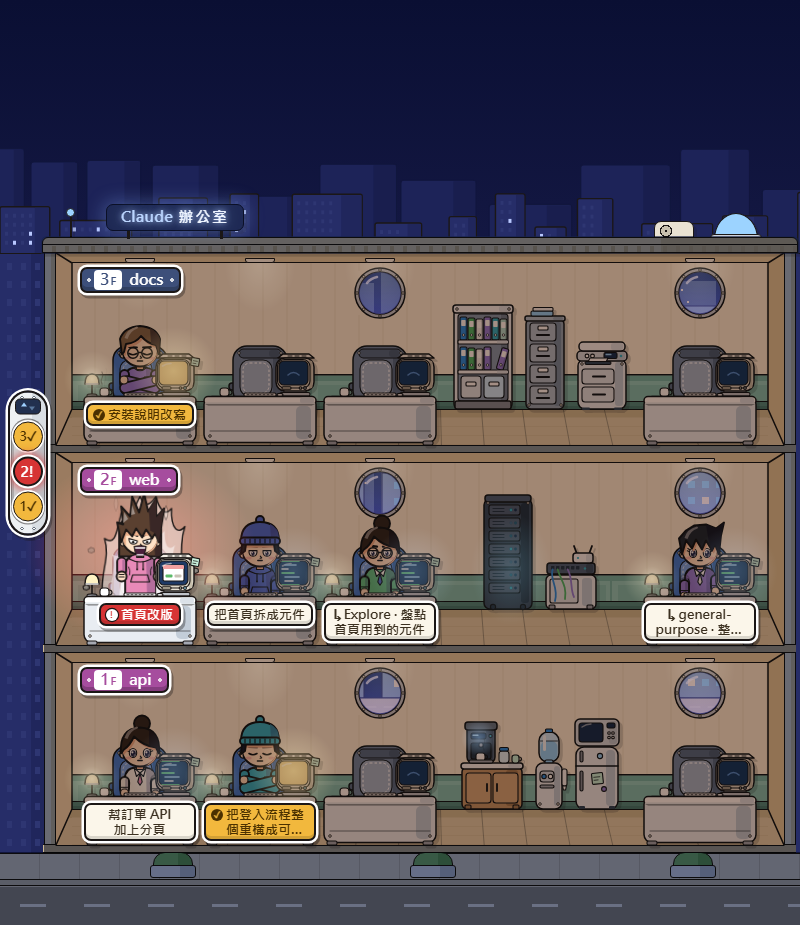
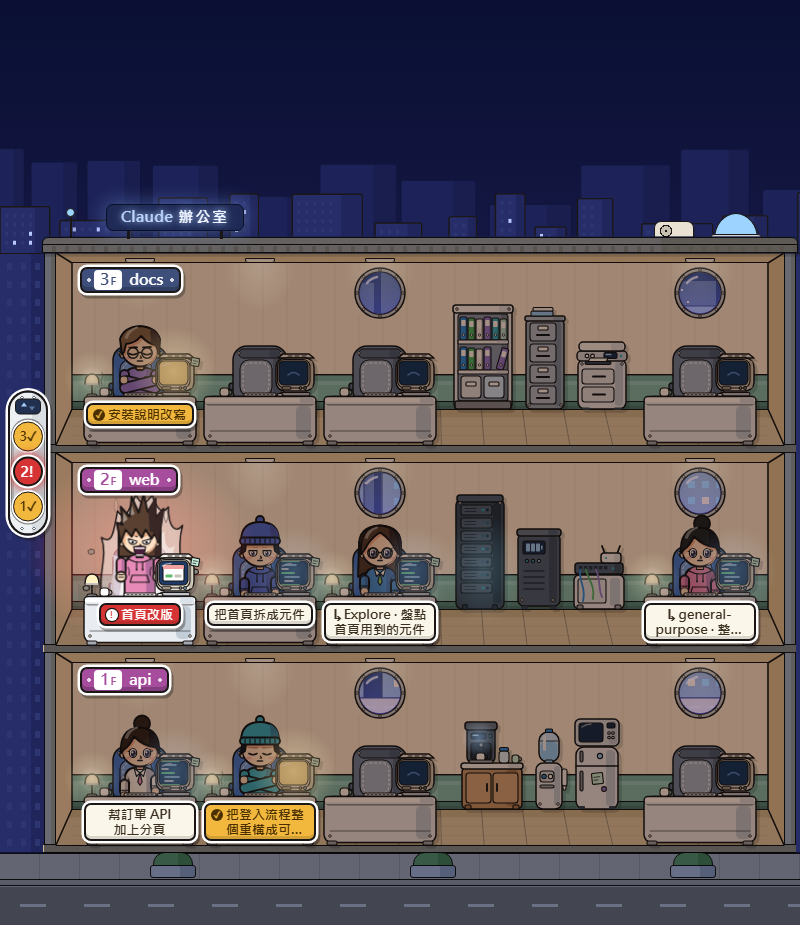
feat: 機房角加 UPS 不斷電櫃
只有機櫃和網路設備櫃時太空，中間加一台 UPS；重拍截圖。

diff --git a/web/src/objects.ts b/web/src/objects.ts
@@ -6,7 +6,7 @@
 import { circle, ellipse, fill, line, path, rect, tag } from './svg.js';
 
 export type DeskState = 'empty' | 'working' | 'waiting' | 'idle';
-export type FurnitureId = 'coffeeBar' | 'waterCooler' | 'fridge' | 'binderShelf' | 'fileCabinet' | 'copier' | 'serverRack' | 'networkCabinet' | 'whiteboard' | 'highTable';
+export type FurnitureId = 'coffeeBar' | 'waterCooler' | 'fridge' | 'binderShelf' | 'fileCabinet' | 'copier' | 'serverRack' | 'ups' | 'networkCabinet' | 'whiteboard' | 'highTable';
 export type ObjectId = `desk-${DeskState}` | 'chair' | 'window' | FurnitureId;
 /** 原點 = 底邊中點；symbol 的 viewBox = `${-w/2} ${-h} ${w} ${h}` */
 export interface ObjectSpec { w: number; h: number }
@@ -27,6 +27,7 @@ export const OBJECTS: Record<ObjectId, ObjectSpec> = {
   fileCabinet: { w: 40, h: 102 },
   copier: { w: 50, h: 68 },
   serverRack: { w: 50, h: 114 },
+  ups: { w: 44, h: 80 },
   networkCabinet: { w: 52, h: 64 },
   whiteboard: { w: 76, h: 106 },
   highTable: { w: 86, h: 80 },
@@ -390,6 +391,17 @@ const RACK_LEDS = Array.from({ length: RACK_UNITS }, (_, i) =>
   C(3, rackY(i) + 5, 1.4, 'led', i % 3 === 1 ? '#9fe6ff' : '#43b0c8', `--lag:${(i * 1.7) % 5}s`)
   + (i % 2 ? C(7.5, rackY(i) + 5, 1.4, 'led', '#43b0c8', `--lag:${(i * 2.3 + 1) % 5}s`) : '')).join('');
 
+/** UPS 不斷電櫃 44×80：深鋼色矮櫃（比機櫃淺一階）、深藍小螢幕裡三格電量、一排青色狀態燈、四道散熱槽、兩隻腳 */
+const ups = () =>
+  R(-21, -76, 42, 73, 6, 'mk', '#56647a') + R(10, -72, 8, 66, 3, '', '#454f61')
+  + R(-22, -80, 44, 7, 3, 'mk', '#6e7b8b') + R(9, -79, 10, 5, 2, '', '#56647a')
+  + R(-16, -68, 22, 13, 2, 'mk-thin', '#22304f')
+  + R(-13, -65.5, 4, 8, 0.8, '', '#9fd0ff') + R(-8, -65.5, 4, 8, 0.8, '', '#9fd0ff') + R(-3, -65.5, 4, 8, 0.8, '', '#9fd0ff') + R(2, -63.5, 1.6, 4, 0.5, '', '#9fd0ff')
+  + C(-12, -48, 1.6, 'mk-thin', '#43b0c8') + C(-6, -48, 1.6, 'mk-thin', '#43b0c8') + C(0, -48, 1.6, 'mk-thin', '#9fe6ff')
+  + L('M-15 -38 h20 M-15 -32 h20 M-15 -26 h20 M-15 -20 h20', 'mk-thin', 'stroke:#2c3646;stroke-width:1.6')
+  + R(-18, -3, 7, 3, 1, '', '#3a4658') + R(11, -3, 7, 3, 1, '', '#3a4658')
+  + rivet(-17, -9) + rivet(14, -9);
+
 /** 網路設備矮櫃 52×64：冷白矮櫃、上面一台交換器（一排網孔）和一台雙天線的路由器，三條網路線從交換器垂到櫃子前面 */
 function networkCabinet(): string {
   let o = R(-25, -34, 50, 34, 5, 'mk', '#e9edf2') + R(11, -31, 10, 28, 3, '', '#c3cdd8') + R(-21, -30, 28, 24, 2, 'mk-thin', '#dfe4ea')
@@ -444,7 +456,7 @@ const DRAW: Record<ObjectId, () => string> = {
   'desk-idle': () => desk('idle'),
   chair,
   window: windowSym,
-  coffeeBar, waterCooler, fridge, binderShelf, fileCabinet, copier, serverRack, networkCabinet, whiteboard, highTable,
+  coffeeBar, waterCooler, fridge, binderShelf, fileCabinet, copier, serverRack, ups, networkCabinet, whiteboard, highTable,
 };
 
 /** 隱藏的 <svg>：<defs> 裡有每個 ObjectId 的 <symbol id>與窗景全景。

diff --git a/web/src/furniture.ts b/web/src/furniture.ts
@@ -9,7 +9,7 @@ export const SETS: { id: string; items: FurnItem[] }[] = [
   // 順序不能變：每層排哪幾組是 furnitureSet 的雜湊加這個順序算的，改了每層的辦公區域就換掉
   { id: 'pantry', items: [{ id: 'coffeeBar' }, { id: 'waterCooler' }, { id: 'fridge' }] },
   { id: 'files', items: [{ id: 'binderShelf' }, { id: 'fileCabinet' }, { id: 'copier' }] },
-  { id: 'servers', items: [{ id: 'serverRack' }, { id: 'networkCabinet' }] },
+  { id: 'servers', items: [{ id: 'serverRack' }, { id: 'ups' }, { id: 'networkCabinet' }] },
   { id: 'meeting', items: [{ id: 'whiteboard' }, { id: 'highTable' }] },
 ];
 

diff --git a/docs/design.md b/docs/design.md
@@ -78,7 +78,7 @@ Claude Code ─hook─▶ src/hook/send.ts ─POST /events─▶ src/server ─r
 - **名牌、招牌、電梯面板**：名牌的「!」「✓」做成圓章，放在文字前面，顏色之外還有第二個線索；字級不變（13px 粗體），最多兩行，往下長、落在桌子的正面擋板上，不蓋到手和鍵盤。截行放在內層，否則被截掉的第三行會從 padding 露出來。招牌的樓號放在白色小牌上，數字放大、F 縮小。電梯面板是不鏽鋼，頂端一塊上下箭頭顯示窗，目前樓層是一條凹下去的軌道。
 - **人物精修**：臉、髮型、比例、姿勢、動畫都不動，只加外輪廓粗度、瀏海在額頭上的影子、頭髮亮面、工作中的深色虹膜和第二點高光、腮紅（爆氣沒有）和衣服細節。戴毛帽的人影子用帽緣的形狀，也不加亮面，針織帽不會反光。
 - **桌子和家具混排成固定格線**：以前座位從左邊依序排，家具固定在最右端，因為桌子會往右長。結果家具永遠離人很遠，也沒有人用，1920 寬時中間還留下一段空走廊。現在每層依寬度先排好格子（`floors.ts` 的 `seatGrid`）：三張桌子接一個家具區，餘數平均給家具區，第 i 號座位對到第 i 格，所以桌子不會把家具推走。900 寬是 3 桌、家具區、2 桌；1920 寬是 10 桌、3 個家具區。沒人的格子畫空桌，椅子調淡，否則一整排亮藍椅子比坐著的人還搶眼。座位分配（`src/state` 的 `freeSeat`）不動。窗和掛畫只開在桌子區的牆上，家具區的牆留給高的家具；第一組的左邊是招牌，所以只在第三張桌子上方開一扇窗（`furniture.ts` 的 `wallPlan`）。第一個家具區依 roomKey 雜湊挑一組，同一層永遠同一組，後面的依序輪。
-- **家具區是辦公區域**：一層樓看起來單調，原因是物件不像辦公室（沙發、立燈、邊桌、地毯像客廳），不是格線，所以格線不動，只換物件。四組由左到右輪：茶水間（木頭矮櫃上的咖啡機、飲水機、小冰箱上放微波爐）、檔案區（冷白鋼架資料櫃、灰藍鐵檔案櫃、影印機）、機房角（伺服器機櫃、放交換器和路由器的網路設備矮櫃）、小會議角（帶輪白板、高腳圓桌加兩張藍色吧台椅）。每組都要放得進最窄的家具區（`GEO.bayMin` 180，件與件間隔 12）；最寬的小會議角是 170。不放盆栽。夜晚家具區的光只剩咖啡機的小螢幕和機櫃指示燈的青光，比以前有立燈和販賣機時暗，桌子區才是亮的地方。
+- **家具區是辦公區域**：一層樓看起來單調，原因是物件不像辦公室（沙發、立燈、邊桌、地毯像客廳），不是格線，所以格線不動，只換物件。四組由左到右輪：茶水間（木頭矮櫃上的咖啡機、飲水機、小冰箱上放微波爐）、檔案區（冷白鋼架資料櫃、灰藍鐵檔案櫃、影印機）、機房角（伺服器機櫃、UPS 不斷電櫃、放交換器和路由器的網路設備矮櫃；只有兩件時太空）、小會議角（帶輪白板、高腳圓桌加兩張藍色吧台椅）。每組都要放得進最窄的家具區（`GEO.bayMin` 180，件與件間隔 12）；最寬的小會議角是 174，機房角 170。不放盆栽。夜晚家具區的光只剩咖啡機的小螢幕和機櫃指示燈的青光，比以前有立燈和販賣機時暗，桌子區才是亮的地方。
 - **格子不夠時不另外設計**：整棟往右加寬、整頁橫向捲動（`buildingWidth`）。多一個家具區時桌數反而會少（1128 寬時 7 桌變 6 桌），寬度和桌數不是單調的，所以 `buildingWidth` 一格一格試，不用公式。已知限制：樓層比視窗寬時，等你的人可能在視窗右邊外面，電梯按鈕只上下捲，點了也看不到，決定先不處理。
 - **畫風**：介面（名牌、招牌、斷線說明、電梯面板、資訊卡）共用一組樣式變數（`theme.css` 的 `--ui-*`）：2px 墨線框、2.5px 白外圈、往右下的半透明硬投影，值取自設計稿白天畫板的名牌；電梯面板、資訊卡是白底墨字，不在夜晚遮罩下，日夜長得一樣。資訊卡面積大，平的白卡在有透視和明暗的大樓前面像一張貼紙，所以外框和投影維持共用的那組，裡面照場景的一階硬影上色（設計稿「資訊卡 B」）：光從左上來，卡片內側右下一道米色暗面（畫在 `.card::before`，不改共用的 `box-shadow`）；頂端是一整塊專案色帶、下緣一階硬影，標題寫在色帶上、頭像右邊（白字加墨線描邊，專案色多半是中明度，白字直接放上去對比不夠）；圓形頭像突出色帶上緣 26（`card.ts` 的 `AVATAR_RISE`，卡片離視窗頂端至少留這麼多），外面一圈專案色，底色是淺專案色加一階硬影，表情固定是工作中的臉，不跟著狀態換；資料夾做成和樓層招牌同款的小牌；目前動作畫成桌上那台映像管的螢幕，等你處理時是螢幕上那個權限對話框；狀態標籤像斜貼的貼紙，騎在色帶右上緣（色帶裡讓給標題），和目前動作、按鈕、助理小圓點一樣分亮暗兩段。名牌太小太細，加明暗只會變花，所以只有資訊卡這樣畫。環境是圓滾滾的機械風，和人物同一套畫法：黑色線稿、圓角、鉚釘、一階硬影（右側一塊加深的實色，不用網點）；整體配色、明暗和墨線（`#1b1716`）以設計稿白天畫板為準：天空是 `#5fb6f5` 到 `#bfe6ff` 的漸層（`--sky-bg`，固定在視窗上），桌子、家具、屋頂有往右下 3px 的半透明硬投影（`--drop`），讓它們離開牆面；設計稿的投影是暖褐 `#5a3418`，色相太接近琥珀，所以改用墨色。桌子是冷白（奶油色的桌子和奶油色的牆混在一起，看起來是平的），配胖胖的映像管螢幕（設計稿的深藍底：工作中是綠、藍、白輪流的亮色程式碼，空桌是一道淡藍弧；只有輪到你的螢幕是琥珀色，那是狀態信號）（畫面大、邊框窄）、每張桌子後面一把藍色椅子（不用藍綠，免得和護牆板混在一起；空桌也有，調淡，畫在人後面，椅背從人的兩側露出來）、鉚釘圓窗、圓頂水塔、圓頭立燈。天空本身只有漸層，屋頂後面可以有墨線畫的遠景樓房（`objects.ts` 的 `skylineSvg`，固定種子），仍然不畫雲、太陽、月亮、星星。屋頂招牌只寫名字，夜晚是冷白燈箱，不用琥珀；不放人數或狀態，紅和琥珀才維持稀有。人物是鳥山明前期風的 Q 版，造型照「Claude 辦公室美術設計稿」artifact 的定稿：大頭（寬橢圓臉，瀏海壓到眉毛、五官在臉的下半部）、黑色線稿（外輪廓 `ol` 比內線粗）、一階硬影（同色加深的實色，不用網點）、中明度飽和色的衣服、自然色的頭髮、大塊稜角髮束、只露前臂、人物本身不畫椅子（椅子是桌子那一層的物件）；眼型（角度眼加粗斜眉、大圓眼加睫毛）、髮型、髮色、衣服款式和顏色、有沒有戴眼鏡（約四分之一）都由 sessionId 雜湊決定（`view.ts` 的 `appearance`）。不放原作的角色、招牌髮型、標誌或名字。
 - **程式照設計稿做，設計稿只放最終版**：「Claude 辦公室美術設計稿」artifact（https://claude.ai/artifact/P3nBrZxz9wgvDNEXzKgwci）只留定案的畫面，不放歷史和提案：一人等待、四人等待、空桌、資訊卡、斷線、下班的雙指點額、1920 寬，每張在 Tweaks 切換白天和夜晚，另有四種辦公區域的特寫。畫面改版的順序是先改設計稿、使用者看過，再照它改程式，改完把實際畫面和設計稿的同一張並排比較，不一樣就改程式。設計稿上的人、標題和專案色是示意用的樣本資料（例如 api 那層的招牌色是另外指定的青瓷色），這些照實際的 session 和雜湊算，不算不一致。設計稿 artifact 是由型別建立的，讀內容用 Artifact 工具的 `read` 加檔案路徑（`project/canvas.json`、`project/Final-*.dc.html`），畫面是畫板引用的截圖素材。
